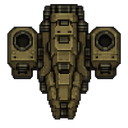
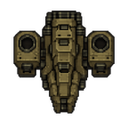
Address QA review feedback for visual QA sprite validation
- Resize oversized sprites to spec-required 128x128: bomber (was
  160x144), boss (was 256x224), juggernaut (was 192x192)
- Fix vertical content bounds: juggernaut and minelayer content now
  fits within 90% of canvas height to prevent HP bar overlap
- Adjust destroyer sprite color to increase RGB distance from scout
  (was 9, now 13) meeting the >10 threshold
- Remove redundant midline horizontal run test from section 3 (already
  covered in section 12 render size compatibility)

Made-with: Cursor

diff --git a/tests/raptor-issue-573-visual-qa.test.ts b/tests/raptor-issue-573-visual-qa.test.ts
@@ -215,13 +215,6 @@ describe("Sprite visual content", () => {
       expect(avgBrightness).toBeGreaterThan(30);
       expect(avgBrightness).toBeLessThan(210);
     });
-
-    test("has at least 8 consecutive opaque pixels at horizontal midline", () => {
-      const png = getSprite(variant);
-      const midY = Math.floor(png.height / 2);
-      const maxRun = getMaxHorizontalRun(png, midY);
-      expect(maxRun).toBeGreaterThanOrEqual(8);
-    });
   });
 });
 
